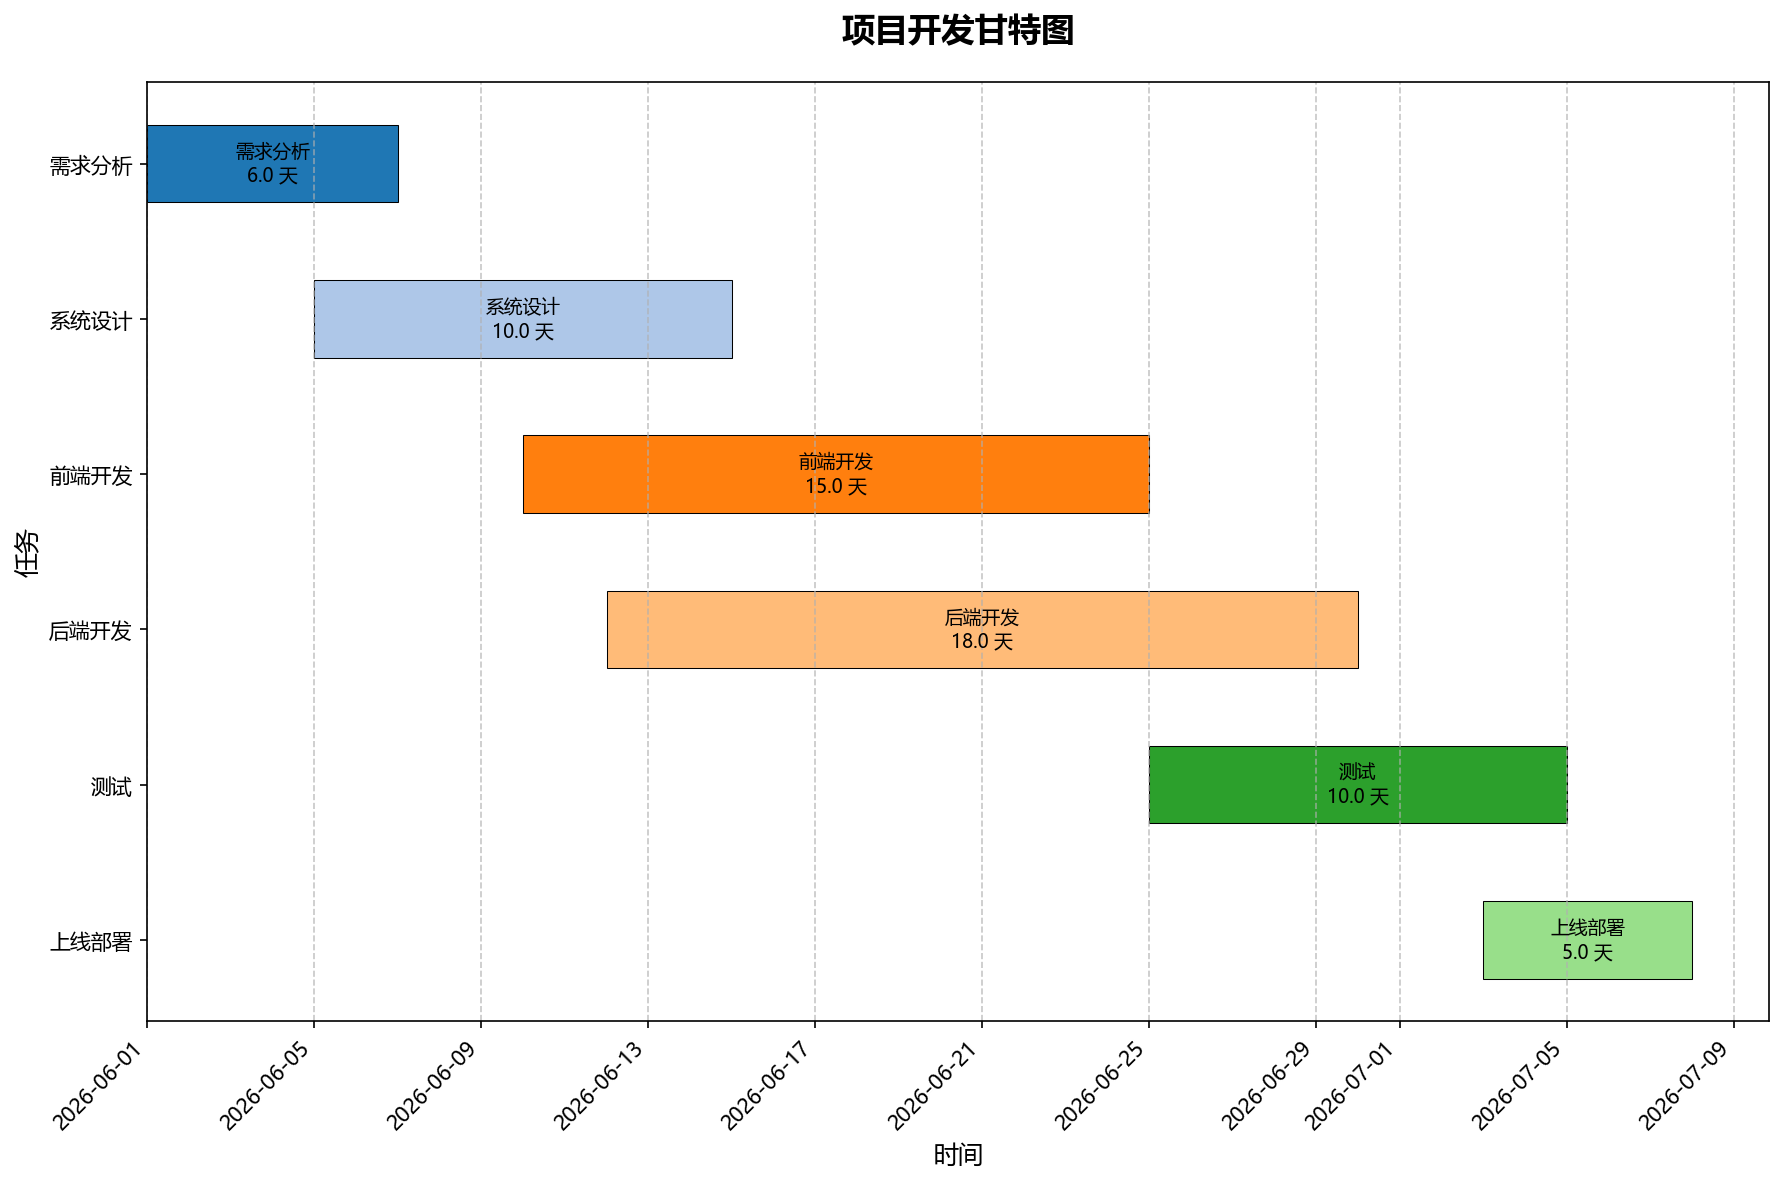
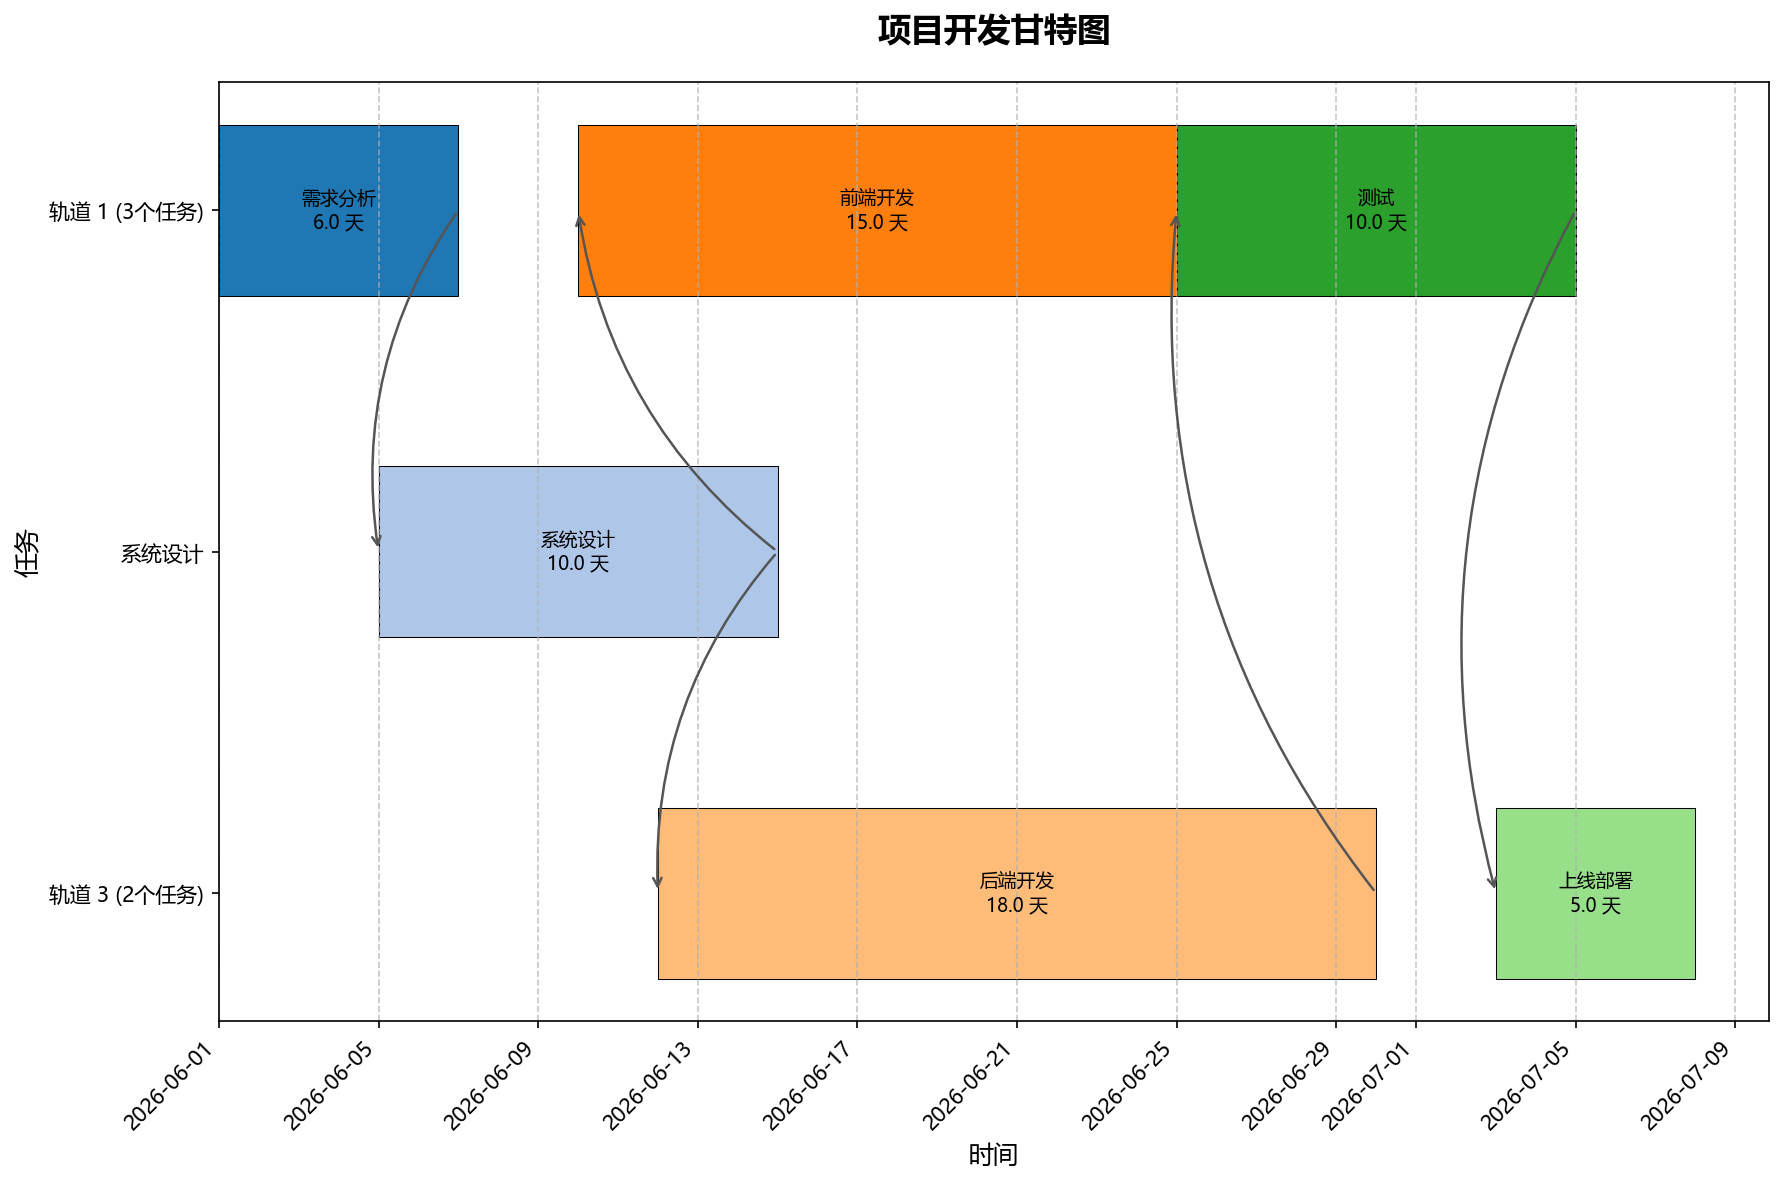
3

diff --git a/gantt_chart.py b/gantt_chart.py
@@ -89,11 +89,18 @@ def generate_gantt(tasks, output_path="gantt_chart.png", title="项目甘特图"
         if end <= start:
             raise ValueError(f"任务 '{name}' 的结束时间必须晚于开始时间")
         
+        deps = task.get("dependencies", [])
+        if deps is None:
+            deps = []
+        if not isinstance(deps, list):
+            deps = [deps]
+        
         parsed_tasks.append({
             "name": name,
             "start": start,
             "end": end,
-            "color": task.get("color", None)
+            "color": task.get("color", None),
+            "dependencies": deps
         })
 
     assigned, num_tracks = _assign_tracks(parsed_tasks)
@@ -103,6 +110,7 @@ def generate_gantt(tasks, output_path="gantt_chart.png", title="项目甘特图"
     
     colors = plt.cm.tab20.colors
     
+    name_to_info = {}
     track_task_names = {}
     for task_idx, (track_idx, task) in enumerate(assigned):
         color = task["color"] if task["color"] else colors[task_idx % len(colors)]
@@ -122,6 +130,52 @@ def generate_gantt(tasks, output_path="gantt_chart.png", title="项目甘特图"
         if track_idx not in track_task_names:
             track_task_names[track_idx] = []
         track_task_names[track_idx].append(task["name"])
+        
+        name_to_info[task["name"]] = (track_idx, start_num, end_num, task)
+    
+    for task_idx, (track_idx, task) in enumerate(assigned):
+        for dep_name in task["dependencies"]:
+            if dep_name not in name_to_info:
+                import warnings
+                warnings.warn(f"任务 '{task['name']}' 的依赖 '{dep_name}' 不存在，已忽略")
+                continue
+            
+            dep_track, dep_start, dep_end, dep_task = name_to_info[dep_name]
+            curr_start = mdates.date2num(task["start"])
+            
+            x_from = dep_end
+            y_from = dep_track
+            x_to = curr_start
+            y_to = track_idx
+            
+            bar_half = bar_height / 2
+            
+            if y_from == y_to:
+                x_mid = (x_from + x_to) / 2
+                y_peak = y_from - bar_half - 0.15
+                ax.annotate("",
+                    xy=(x_to, y_to),
+                    xytext=(x_from, y_from),
+                    arrowprops=dict(
+                        arrowstyle="->",
+                        color="#555555",
+                        lw=1.2,
+                        connectionstyle=f"arc3,rad=-0.3"
+                    )
+                )
+            else:
+                direction = 1 if y_to > y_from else -1
+                x_mid = (x_from + x_to) / 2
+                ax.annotate("",
+                    xy=(x_to, y_to),
+                    xytext=(x_from, y_from),
+                    arrowprops=dict(
+                        arrowstyle="->",
+                        color="#555555",
+                        lw=1.2,
+                        connectionstyle=f"arc3,rad={direction * 0.2}"
+                    )
+                )
 
     y_labels = []
     for t in range(num_tracks):

diff --git a/main.py b/main.py
@@ -7,11 +7,11 @@ from gantt_chart import generate_gantt, generate_gantt_from_list
 def demo():
     tasks = [
         {"name": "需求分析", "start": "2026-06-01", "end": "2026-06-07"},
-        {"name": "系统设计", "start": "2026-06-05", "end": "2026-06-15"},
-        {"name": "前端开发", "start": "2026-06-10", "end": "2026-06-25"},
-        {"name": "后端开发", "start": "2026-06-12", "end": "2026-06-30"},
-        {"name": "测试", "start": "2026-06-25", "end": "2026-07-05"},
-        {"name": "上线部署", "start": "2026-07-03", "end": "2026-07-08"},
+        {"name": "系统设计", "start": "2026-06-05", "end": "2026-06-15", "dependencies": ["需求分析"]},
+        {"name": "前端开发", "start": "2026-06-10", "end": "2026-06-25", "dependencies": ["系统设计"]},
+        {"name": "后端开发", "start": "2026-06-12", "end": "2026-06-30", "dependencies": ["系统设计"]},
+        {"name": "测试", "start": "2026-06-25", "end": "2026-07-05", "dependencies": ["前端开发", "后端开发"]},
+        {"name": "上线部署", "start": "2026-07-03", "end": "2026-07-08", "dependencies": ["测试"]},
     ]
     
     output = generate_gantt(tasks, output_path="gantt_demo.png", title="项目开发甘特图")
@@ -44,7 +44,8 @@ def main():
     print("""
 [
     {"name": "任务1", "start": "2026-06-01", "end": "2026-06-05"},
-    {"name": "任务2", "start": "2026-06-03", "end": "2026-06-10", "color": "#FF6B6B"}
+    {"name": "任务2", "start": "2026-06-03", "end": "2026-06-10", "color": "#FF6B6B", "dependencies": ["任务1"]},
+    {"name": "任务3", "start": "2026-06-10", "end": "2026-06-15", "dependencies": ["任务1", "任务2"]}
 ]
     """)
 